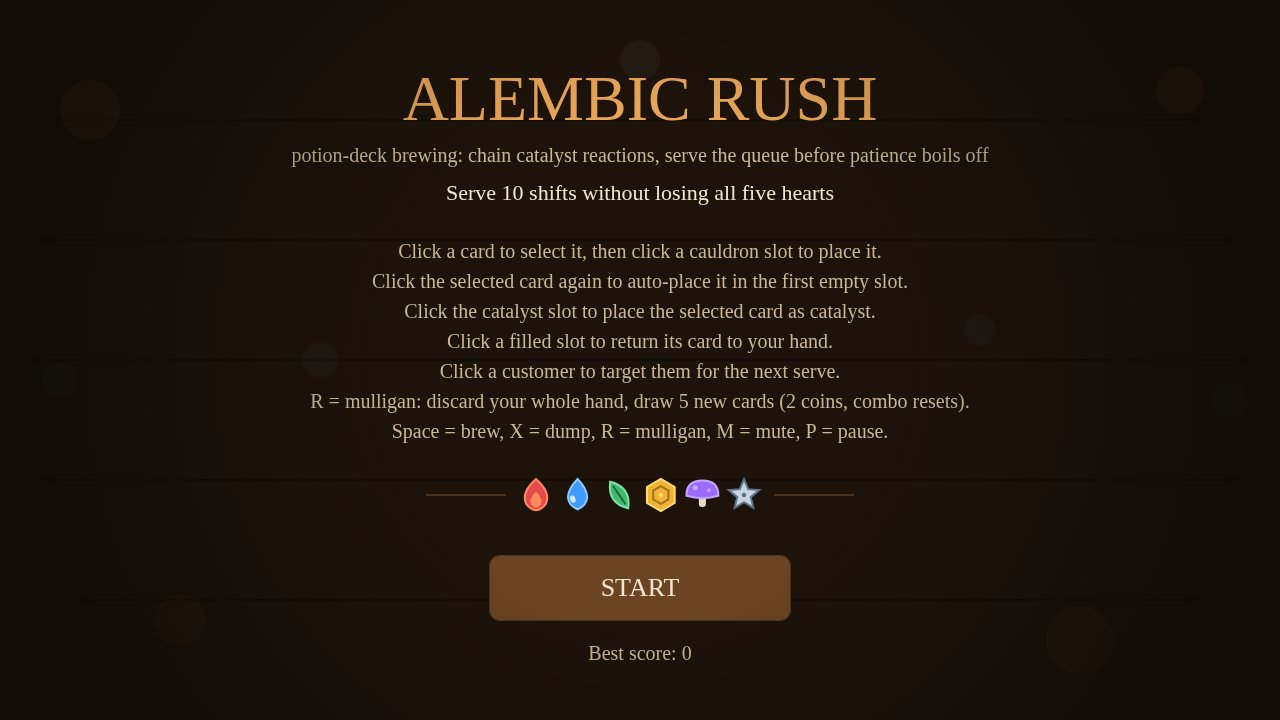
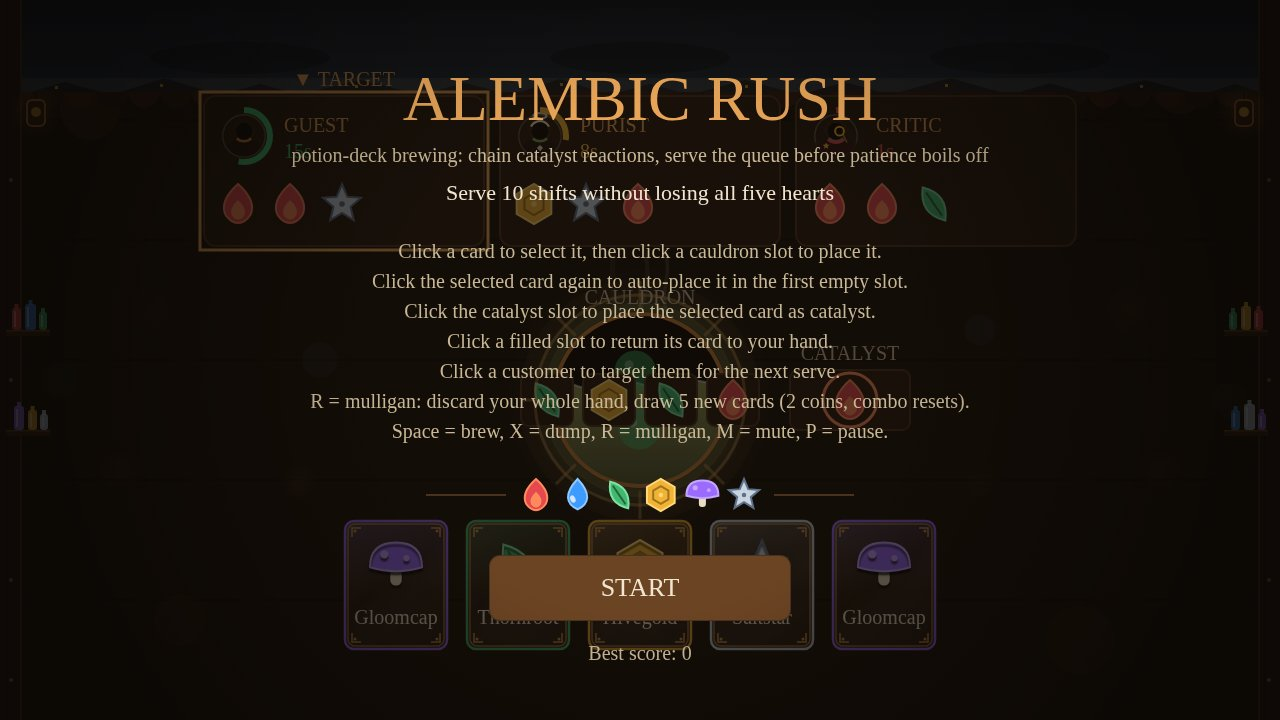
Fase D v2 (percobaan): demo autoplay redup di belakang title
Demo adegan play (antrean 3 pelanggan + kauldron + tangan 5 kartu +
kilat sajian) sebagai fungsi murni animTime, RNG demo terpisah per
siklus, tidak menyentuh RNG game/visual atau state. Digambar sangat
redup (alpha 0,18 + overlay 0,65) di bawah konten title yang tidak
berubah. Shot 2 di-capture ulang; shot 1/3/4 tidak disentuh.
KEPUTUSAN KEEP/CUT DI TANGAN HQ — revert penuh bila CUT.

diff --git a/game/src/ui.js b/game/src/ui.js
@@ -11,6 +11,8 @@ import {
   UTILITIES,
   dayConfig,
   deckComposition,
+  generateRecipe,
+  makeRng,
   offerText,
   offerTitle,
   rankFor,
@@ -88,6 +90,7 @@ function heartsLine(hearts, max) {
 
 function drawTitle(ctx, state) {
   clearScreen(ctx, 1280, 720);
+  drawTitleDemo(ctx, state);
   drawText(ctx, 'ALEMBIC RUSH', 640, 120, {
     font: '64px Georgia, serif',
     align: 'center',
@@ -543,4 +546,96 @@ function drawDeckCounts(ctx, state) {
   const y = 612;
   drawPanel(ctx, x, y, w, h, 17);
   drawText(ctx, text, x + w / 2, y + 23, { font: '20px Georgia, serif', align: 'center' });
+}
+
+// ---- Demo autoplay di belakang title (Fase D, di bawah deklarasi lama) ----
+// Adegan demo adalah fungsi MURNI dari waktu (state.animTime): antrean,
+// kauldron, dan tangan dibuat ulang tiap frame dari RNG demo yang dibuat
+// segar per siklus — TIDAK PERNAH menyentuh state.rng, state.visualRng,
+// atau field permainan apa pun. Demo digambar SANGAT redup (alpha 0,18 +
+// overlay gelap 0,65) di bawah konten title yang tidak berubah.
+
+const DEMO_SEED = 987654321;
+const DEMO_CYCLE_SEC = 12;
+const DEMO_ELEMENTS = ['cinnabar', 'moonwell', 'thornroot', 'hivegold', 'gloomcap', 'saltstar'];
+
+function demoStateFor(time) {
+  const phase = ((time % DEMO_CYCLE_SEC) + DEMO_CYCLE_SEC) % DEMO_CYCLE_SEC;
+  const cycle = Math.floor(time / DEMO_CYCLE_SEC);
+  const queue = [0, 1, 2].map((i) => {
+    const rng = makeRng((DEMO_SEED + cycle * 131 + i * 17) >>> 0);
+    const maxPatience = 28;
+    const frac = 1 - ((phase + i * 3.1) % DEMO_CYCLE_SEC) / DEMO_CYCLE_SEC;
+    return {
+      id: 900 + i,
+      recipe: generateRecipe(8, rng),
+      patience: Math.max(1, maxPatience * frac),
+      maxPatience,
+      critic: i === 2,
+      purist: i === 1,
+      warned: frac < 0.25,
+    };
+  });
+  const half = phase % 6;
+  const brewRng = makeRng((DEMO_SEED + cycle * 131 + 7) >>> 0);
+  const brew = generateRecipe(8, brewRng);
+  brew.push(DEMO_ELEMENTS[Math.floor(brewRng() * DEMO_ELEMENTS.length)]);
+  const filled = half < 4.8 ? Math.floor(half / 1.2) : 4;
+  const slots = [null, null, null, null];
+  for (let i = 0; i < filled; i += 1) slots[i] = brew[i];
+  const handRng = makeRng((DEMO_SEED + cycle * 131 + 3) >>> 0);
+  const hand = [];
+  for (let i = 0; i < 5; i += 1) {
+    hand.push(handRng() < 0.2 ? 'stir' : DEMO_ELEMENTS[Math.floor(handRng() * DEMO_ELEMENTS.length)]);
+  }
+  return {
+    day: 8,
+    animTime: time,
+    queue,
+    cauldron: { slots, catalyst: DEMO_ELEMENTS[((cycle % DEMO_ELEMENTS.length) + DEMO_ELEMENTS.length) % DEMO_ELEMENTS.length] },
+    hand,
+    selected: null,
+    mouse: null,
+    targetId: queue[0].id,
+    rejectFlash: 0,
+  };
+}
+
+// Kilat sajian demo: cincin mengembang + 8 sinar, fungsi murni waktu.
+// Aktif 0,8 detik di ujung tiap setengah siklus (saat brew "disajikan").
+function drawDemoFlash(ctx, time) {
+  const half = ((time % 6) + 6) % 6;
+  if (half < 5.2) return;
+  const p = (half - 5.2) / 0.8;
+  const radius = 40 + p * 130;
+  ctx.save();
+  ctx.globalAlpha = 0.8 * (1 - p);
+  ctx.strokeStyle = '#e8a558';
+  ctx.lineWidth = 3;
+  ctx.beginPath();
+  ctx.arc(640, 400, radius, 0, Math.PI * 2);
+  ctx.stroke();
+  for (let i = 0; i < 8; i += 1) {
+    const a = (i * Math.PI) / 4;
+    ctx.beginPath();
+    ctx.moveTo(640 + Math.cos(a) * (radius - 14), 400 + Math.sin(a) * (radius - 14));
+    ctx.lineTo(640 + Math.cos(a) * (radius + 14), 400 + Math.sin(a) * (radius + 14));
+    ctx.stroke();
+  }
+  ctx.restore();
+}
+
+function drawTitleDemo(ctx, state) {
+  const time = state.animTime || 0;
+  const demo = demoStateFor(time);
+  ctx.save();
+  ctx.globalAlpha = 0.18;
+  drawBackground(ctx, demo);
+  drawCustomers(ctx, demo);
+  drawCauldron(ctx, demo);
+  drawHand(ctx, demo);
+  drawDemoFlash(ctx, time);
+  ctx.restore();
+  ctx.fillStyle = 'rgba(15,10,6,0.65)';
+  ctx.fillRect(0, 0, 1280, 720);
 }
